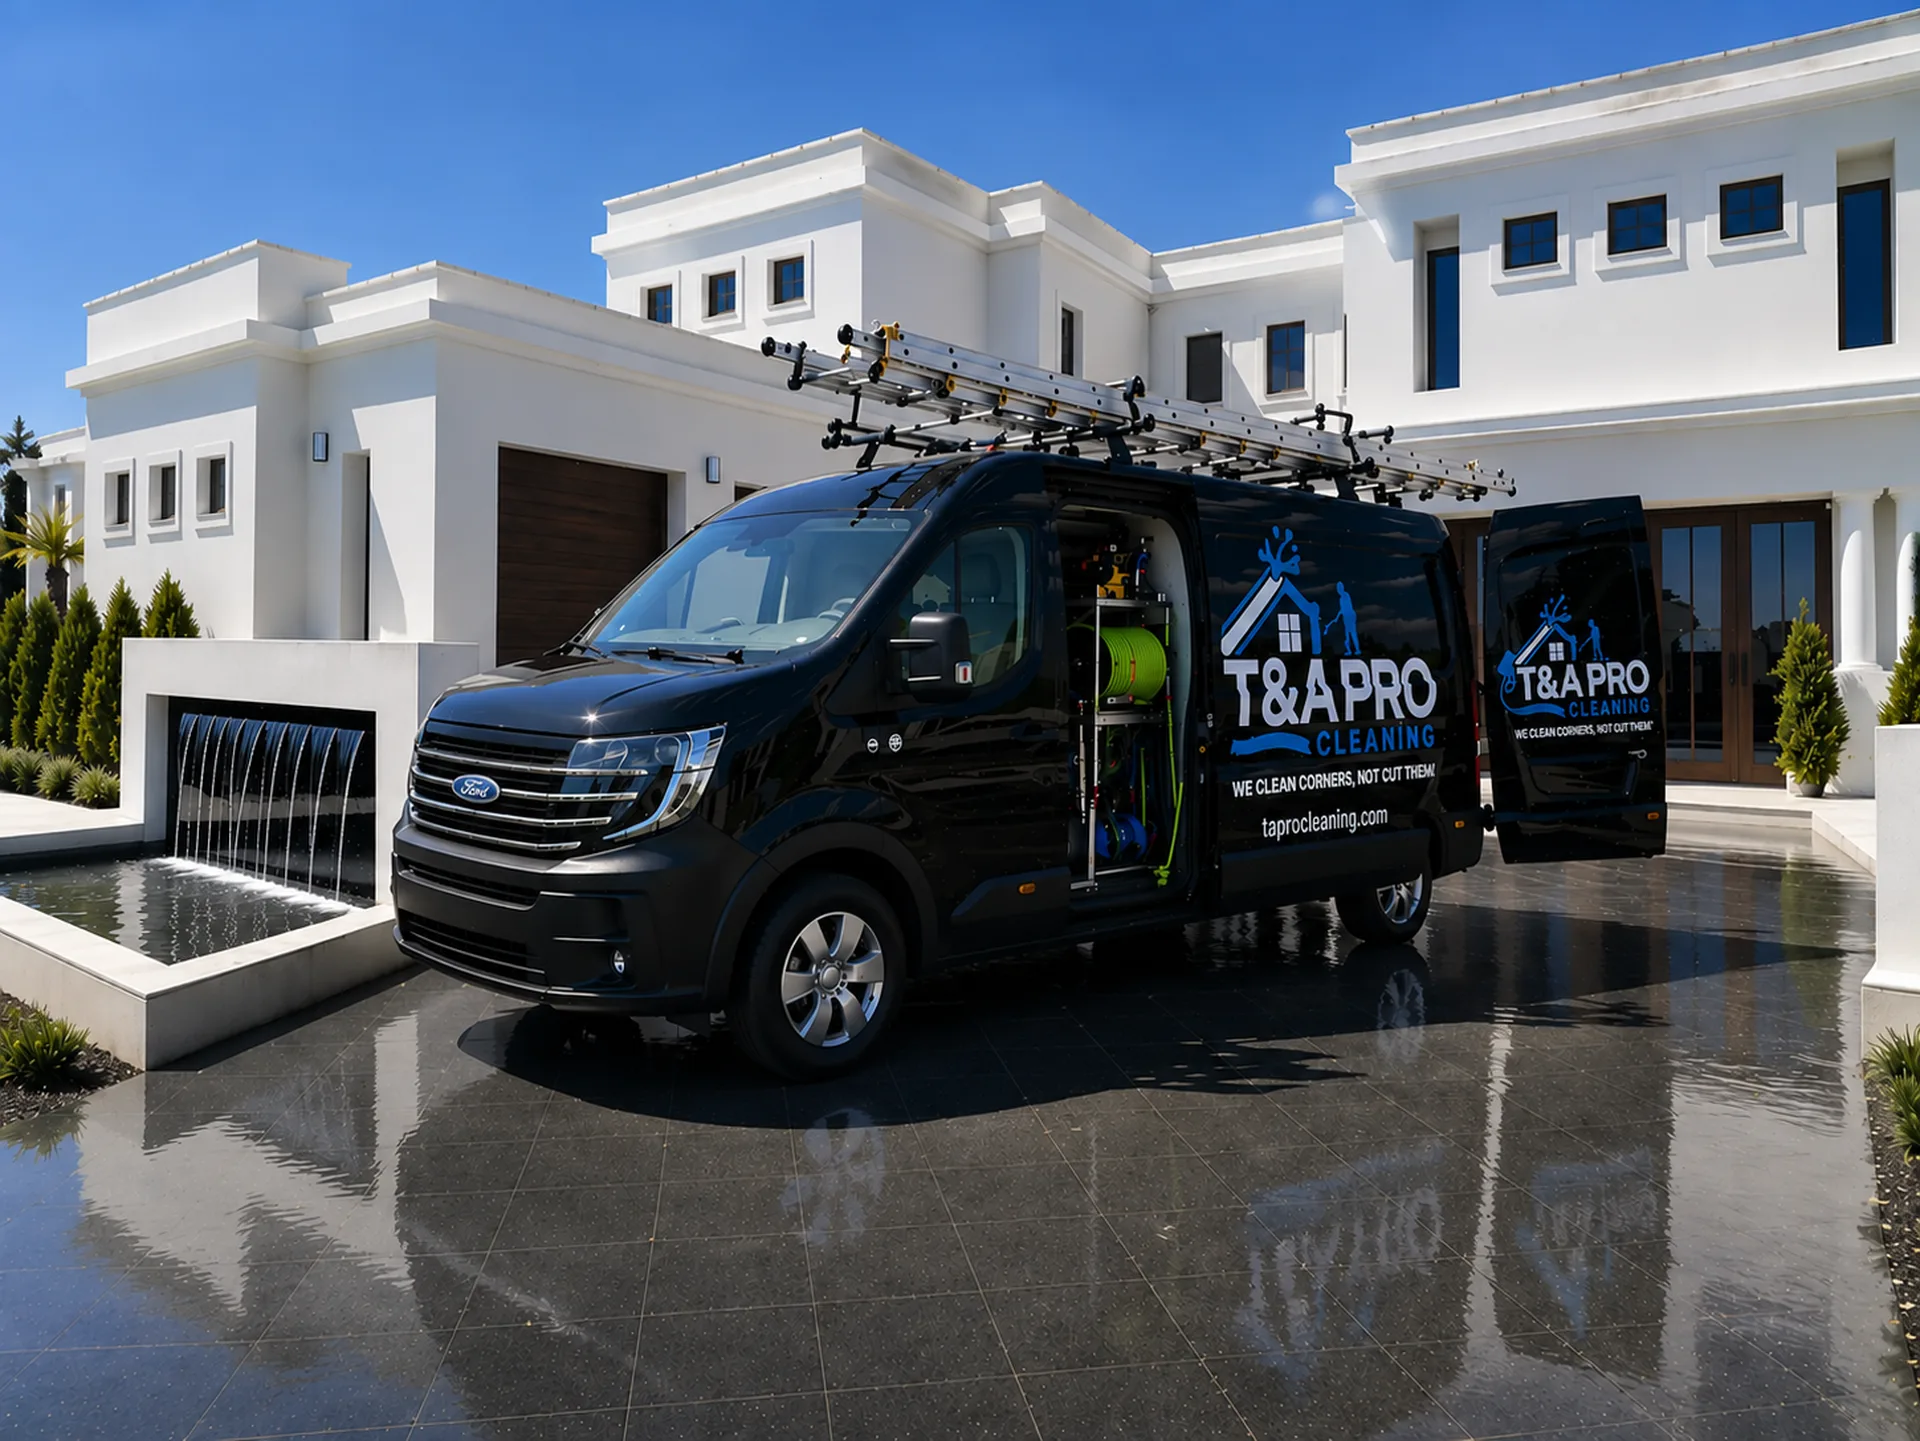
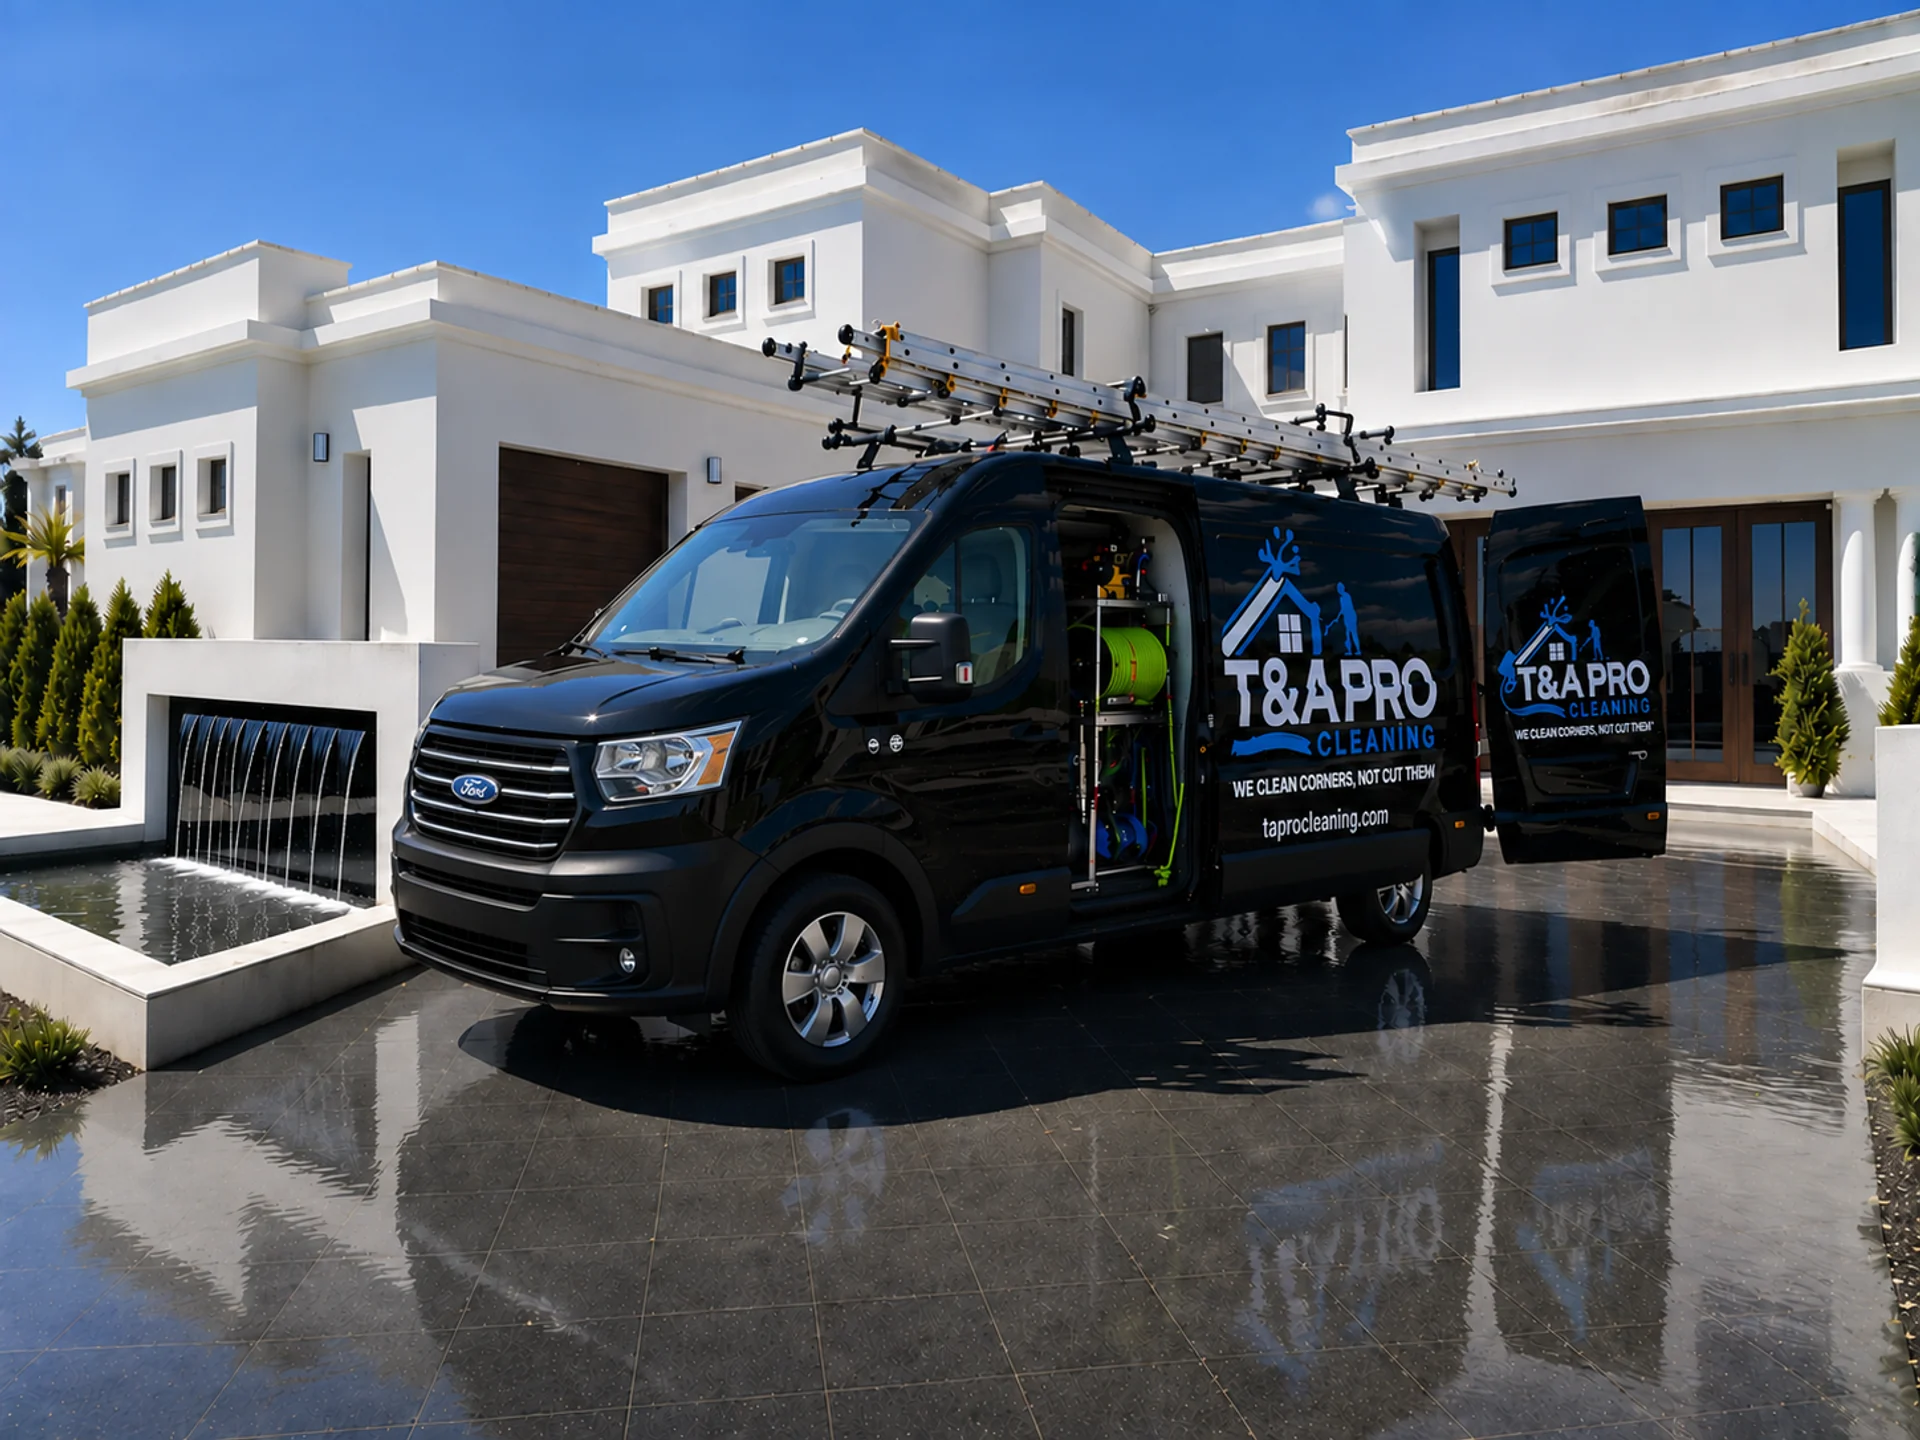
Repair hero van headlights and grille while retaining Ford badge

diff --git a/index.html b/index.html
@@ -65,14 +65,14 @@ window.gtag('consent', 'default', {
     <link rel="canonical" href="https://www.tandaprocleaning.com.au/" />
     <link rel="icon" href="assets/images/logo.jpeg" />
     <link rel="manifest" href="manifest.json" />
-    <link rel="preload" as="image" href="assets/images/hero-house-van-1920.webp?v=ford-badge" media="(min-width: 761px)" fetchpriority="high" />
-    <link rel="preload" as="image" href="assets/images/hero-house-van-900.webp?v=ford-badge" media="(max-width: 760px)" fetchpriority="high" />
+    <link rel="preload" as="image" href="assets/images/hero-house-van-1920.webp?v=ford-front-repair" media="(min-width: 761px)" fetchpriority="high" />
+    <link rel="preload" as="image" href="assets/images/hero-house-van-900.webp?v=ford-front-repair" media="(max-width: 760px)" fetchpriority="high" />
     <script>
       if ('scrollRestoration' in history) {
         history.scrollRestoration = 'manual';
       }
     </script>
-  <link rel="stylesheet" href="styles-home.css?v=20260927-quote-discount" />
+  <link rel="stylesheet" href="styles-home.css?v=20260927-hero-repair" />
   <link rel="stylesheet" href="promotions.css?v=20260927-confetti" />
 <script type="application/ld+json">
       {

diff --git a/styles-home.css b/styles-home.css
@@ -129,7 +129,7 @@
 
       /* Hero section */
       .hero {
-        background-image: url('assets/images/hero-house-van-1920.webp');
+        background-image: url('assets/images/hero-house-van-1920.webp?v=ford-front-repair');
         background-size: cover;
         background-position: center;
         padding: 160px 0;
@@ -2120,7 +2120,7 @@ summary:focus-visible {
   padding: 0;
   background:
     linear-gradient(135deg, rgba(8,17,31,0.72), rgba(0,127,190,0.34)),
-    url("assets/images/hero-house-van-1920.webp?v=ford-badge"),
+    url("assets/images/hero-house-van-1920.webp?v=ford-front-repair"),
     linear-gradient(135deg, #0b1630, #00a6ef);
   background-size: cover;
   background-position: center;
@@ -7726,7 +7726,7 @@ body.premium-home {
   .hero {
     background:
       linear-gradient(135deg, rgba(8,17,31,0.76), rgba(0,127,190,0.38)),
-      url("assets/images/hero-house-van-900.webp?v=ford-badge"),
+      url("assets/images/hero-house-van-900.webp?v=ford-front-repair"),
       linear-gradient(135deg, #0b1630, #00a6ef);
     background-position: center;
     background-size: cover;

diff --git a/docs/HERO-FRONT-REPAIR.md b/docs/HERO-FRONT-REPAIR.md
@@ -1,0 +1,20 @@
+# Hero van headlight and grille repair — 27 September 2026
+
+Requested change: separate the headlights from the grille, retaining the Ford badge and existing hero composition.
+
+Edited with the built-in image generation tool in precise-object-edit mode. The previous source and exports remain recoverable from Git commit `8c8e1cb1abba9f5deb461c79f84321b9ec950c98`. The generated source was copied into the repository; Sharp was used only to resize and encode desktop/mobile WebP exports.
+
+Saved project assets:
+- `assets/images/hero-house-van.png`
+- `assets/images/hero-house-van-1920.webp`
+- `assets/images/hero-house-van-900.webp`
+
+All hero references and preloads use `v=ford-front-repair` to avoid stale cached images. Pricing and tracking code were not modified for this repair.
+
+## Exact editing prompt
+
+Use case: precise-object-edit. Edit the supplied existing website hero photo. Primary request: repair ONLY the black cleaning van's front headlights and grille. The current horizontal chrome grille bars incorrectly continue through the near-side headlight and its lens shape merges into the grille. Make a believable, clean Ford van front fascia: one central black grille with restrained horizontal chrome bars that terminate cleanly at its outer border, a clearly separate self-contained clear headlight housing on each side following the existing perspective, physically correct dark body-panel separation between grille and headlights, realistic lens/reflector detail. The prominent near-side headlight must be entirely outside the grille with no grille slats or chrome strips crossing its lens. Retain the centered blue oval Ford badge and its white script on the grille. Match the van's existing black paint, reflections, sunlight, camera angle, shadows and scale. Preserve everything outside this small front grille/headlight region as closely as possible: exact van placement and silhouette, T&A PRO CLEANING branding and all existing side text, open doors, hose equipment, ladder rack, wheels, mansion, water feature, wet driveway, sky, framing and aspect ratio. Do not redesign the van body, add objects, crop, change the company lettering, or alter the rest of the scene. Photorealistic repair with crisp but natural boundaries; headlights remain unlit. Output the full corrected hero image at the original composition and aspect ratio.
+
+## Verification
+
+Inspected the generated source and browser screenshots. Verified the desktop 1920×1440 and mobile 900×675 WebP files load with the new versioned URLs at 1440px and 390px viewport widths, with no horizontal overflow. The red 15% banner remains present. No forms, conversions, emails or payments were sent.

diff --git a/docs/PRODUCTION-PRICING-FIX.md b/docs/PRODUCTION-PRICING-FIX.md
@@ -48,7 +48,9 @@ The existing explicit standard-condition first-clean adjustment of $75 ex GST is
 
 ## Restored approved design
 
-The five saved image files were copied byte-for-byte from `../pricing-payments-ads-readiness/assets/images/`: `builders-clean-1600.webp`, `builders-clean.JPG`, `hero-house-van-1920.webp`, `hero-house-van-900.webp` and `hero-house-van.png`. The gym image is already upright with the small Anytime Fitness logo embedded in the top-right corner. Both homepage uses share this asset; the commercial thumbnail is aligned to the top to keep its logo visible. Asset query versions prevent stale previews. Only the banner-specific CSS and the requested hero spacing were carried over; the older pricing generator and engine were not copied. The banner also includes subtle static confetti at its edges, checked at 320, 390 and 1266 pixels without horizontal overflow or blocked links. The customer Call Now button is confirmed as `tel:0466224927`, with the mobile number in its accessible label; existing call tracking is unchanged.
+The five saved image files were initially copied byte-for-byte from `../pricing-payments-ads-readiness/assets/images/`: `builders-clean-1600.webp`, `builders-clean.JPG`, `hero-house-van-1920.webp`, `hero-house-van-900.webp` and `hero-house-van.png`. The gym image is already upright with the small Anytime Fitness logo embedded in the top-right corner. Both homepage uses share this asset; the commercial thumbnail is aligned to the top to keep its logo visible. Asset query versions prevent stale previews. Only the banner-specific CSS and the requested hero spacing were carried over; the older pricing generator and engine were not copied. The banner also includes subtle static confetti at its edges, checked at 320, 390 and 1266 pixels without horizontal overflow or blocked links. The customer Call Now button is confirmed as `tel:0466224927`, with the mobile number in its accessible label; existing call tracking is unchanged.
+
+The hero photo subsequently received the requested targeted headlight/grille repair, preserving the Ford badge. Updated desktop/mobile WebP exports replace the earlier versions. See `HERO-FRONT-REPAIR.md` for the editing prompt, saved assets and rollback source.
 
 ## Source, backup and commercial uncertainties
 
